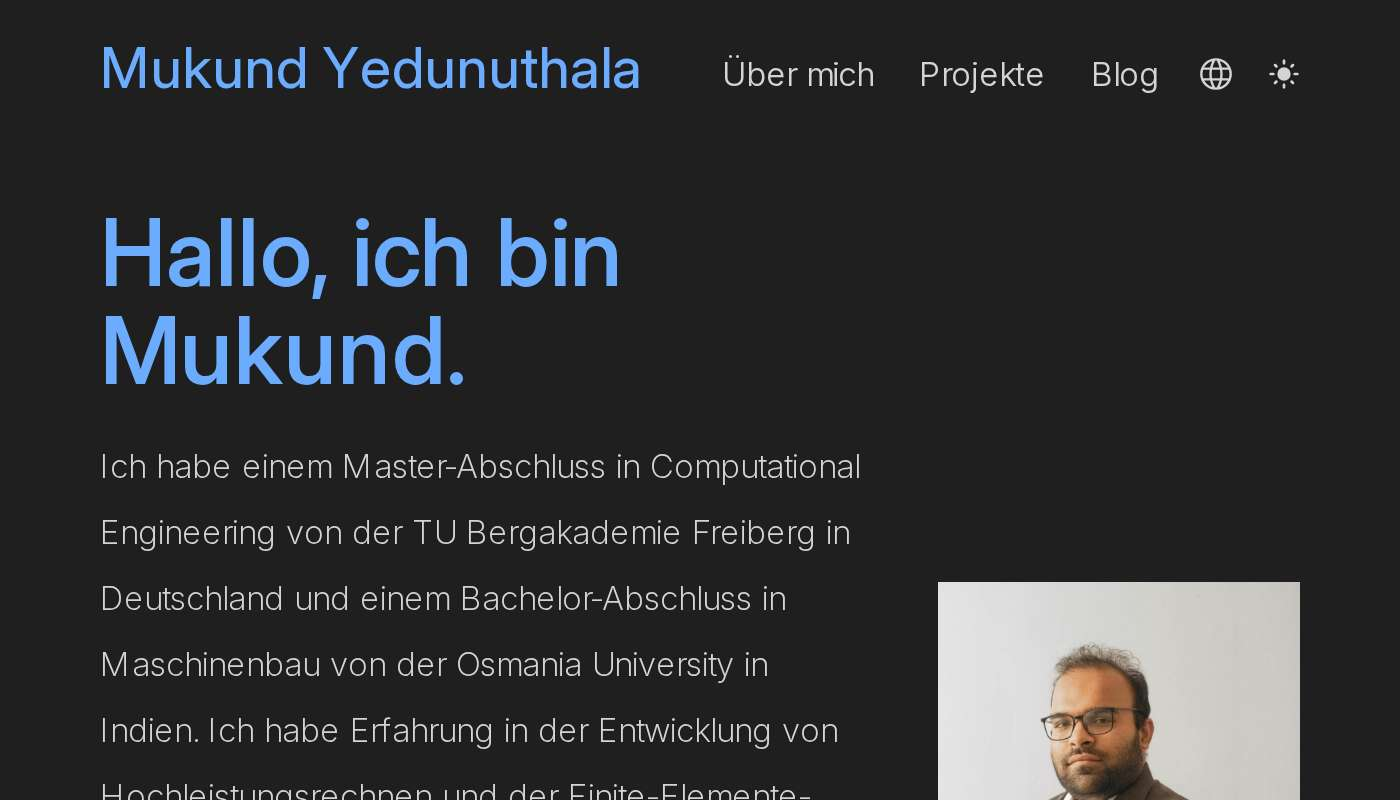
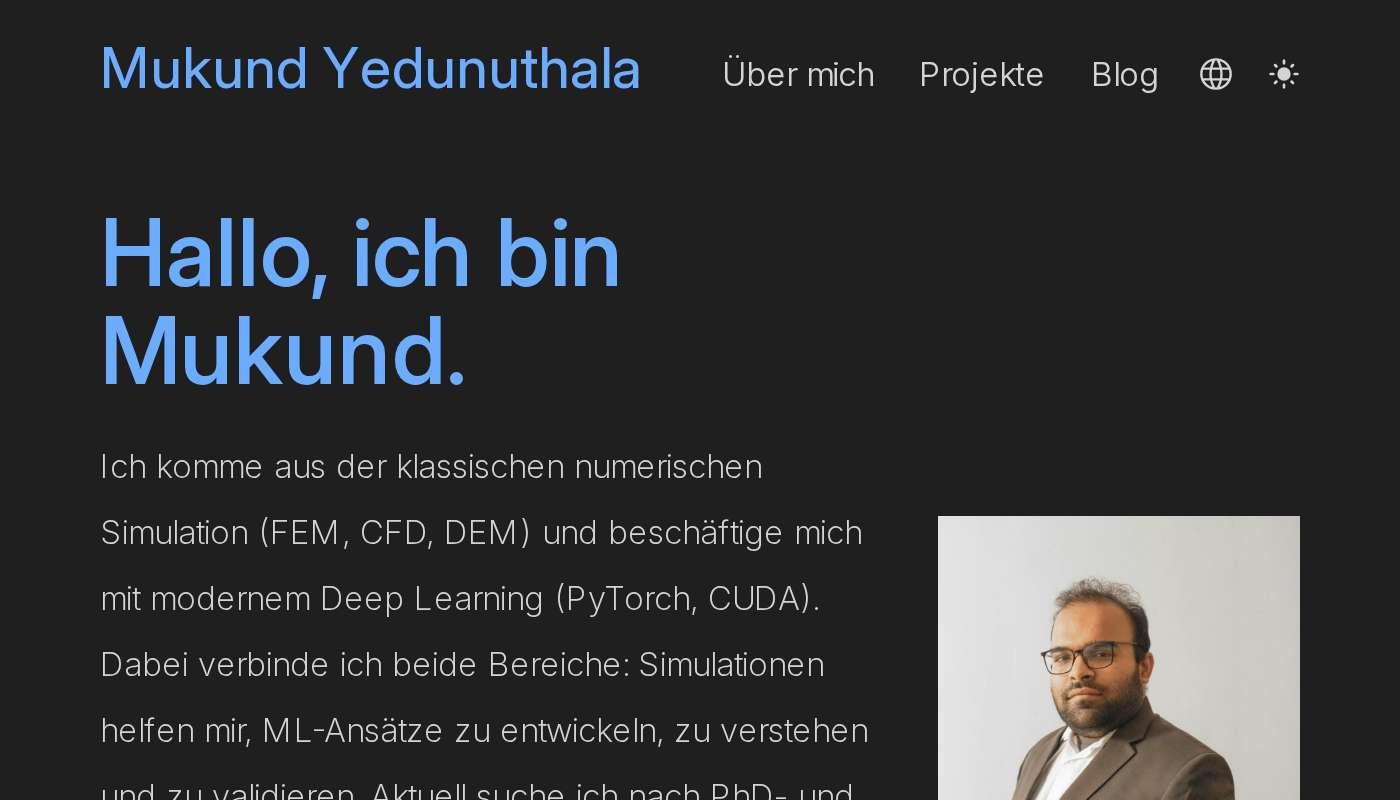
docs: update content on homepage and about page

diff --git a/content/pages/about/index.md b/content/pages/about/index.md
@@ -3,75 +3,70 @@ path = "/about"
 title = "About me"
 template = "info-page.html"
 date = "2023-08-27"
-updated = "2024-10-22"
+updated = 2026-09-01
 [extra]
 social_media_card = "img/social_cards/about.jpg"
 +++
 
-I am a software engineer with a Master's degree in Computational Materials Science from TU Bergakademie Freiberg, Germany, specialising in high-performance computing, numerical approximation methods, and applications of AI in materials science. I also hold a Bachelor's degree in Mechanical Engineering from Chaitanya Bharathi Institute of Technology, Hyderabad, India. I am currently based in Hyderabad, India. I have a strong command of both English and German, allowing me to communicate effectively in bilingual professional settings.
+I am a computational engineer with a Master's degree in Computational Materials Science from TU Bergakademie Freiberg, Germany, specialising in high-performance computing (HPC), numerical methods, and GPU-accelerated AI applications. I hold a Bachelor's degree in Mechanical Engineering from Chaitanya Bharathi Institute of Technology, affiliated with Osmania University, Hyderabad, India, and am currently based in Hyderabad, India. I am fluent in English (C1) and German (B2), enabling effective communication in bilingual professional environments.
 
-### Summary
+## Summary
 
-#### Educational Background
-
-- **Master of Science in Computational Materials Science**, TU Bergakademie Freiberg, Germany
+### Educational Background
+ 
+- **Master of Science in Computational Materials Science**, TU Bergakademie Freiberg, Germany *(Oct 2019 – Sep 2024)*
+    - Grade: 2.3
     - Focus: Nonlinear Finite Element Methods, Numerical Analysis of Differential Equations, Machine Learning for Materials Scientists, High-Performance Computing, Continuum Mechanics
     - Thesis: *Overlapping Schwarz Domain Decomposition Methods in Python with Applications in Structural Mechanics*
+    - Supervisors: Prof. Dr. Oliver Rheinbach, Dr. Stephan Köhler, Institute of Numerical Mathematics and Optimization, TU Bergakademie Freiberg
+- **Bachelor of Engineering in Mechanical Engineering**, Chaitanya Bharathi Institute of Technology, Hyderabad, India *(Aug 2015 – Jul 2019)*
+    - Grade: 8.6/10
+    - Focus: Structural Mechanics, Computer-Aided Design and Manufacturing, Machine Design, Dynamics of Machines, Fluid Mechanics, Thermodynamics, Heat Transfer
 
-- **Bachelor of Engineering in Mechanical Engineering**, Chaitanya Bharathi Institute of Technology, Hyderabad, India
-    - Focus: Structural Mechanics, Computer-Aided Engineering (CAE), Fluid Dynamics, Thermodynamics
 
-#### Skills and Expertise
+### Skills and Expertise
 
-- **Domains**: GPU-Accelerated Computing, AI Model Optimisation, Finite Element Analysis, High-Performance Computing, Numerical Modelling, Distributed & Parallel Computing
-- **GPU Computing**: CUDA, Numba (GPU), kernel optimisation, performance profiling
-- **Distributed & Parallel Computing**: MPI, OpenMP, PETSc, PBS, SLURM
-- **AI / ML Frameworks**: PyTorch, TensorFlow, scikit-learn, NumPy, SciPy
-- **Programming Languages**: Python, C++, MATLAB, Fortran, Rust
-- **Simulation Tools**: Abaqus, GMsh, LS-DYNA, ANSYS Mechanical
-- **Software Development**: Git (GitHub, GitLab), Docker, CMake, Linux, PyTest, Catch2, Googletest
-- **Documentation**: LaTeX, Sphinx, Doxygen
-- **Soft Skills**: Problem-solving, Teamwork, Research, Technical communication, Public speaking
+- **Core Competencies**: GPU-Accelerated Computing, AI Model Optimisation, Finite Element Analysis, High-Performance Computing, Numerical Modelling, Distributed & Parallel Computing
+- **GPU & Accelerated Computing**: CUDA, Numba, kernel optimisation, performance profiling
+- **Parallel & Distributed Computing**: MPI, OpenMP, PETSc, SLURM, PBS
+- **Machine Learning & AI**: PyTorch, TensorFlow, scikit-learn, NumPy, SciPy
+- **Programming Languages**: Python, MATLAB, C++, Fortran, Rust
+- **Numerical Methods**: PDE discretisation, finite element methods, numerical linear algebra, Krylov methods (CG, PCG, GMRES), preconditioning
+- **Simulation & Analysis Tools**: Abaqus, GMsh, COMSOL Multiphysics, LS-DYNA, ANSYS Workbench
+- **Software Development Practices**: Git, PyTest, CMake, Docker, GoogleTest, Linux
+- **Documentation & Communication**: LaTeX, Sphinx, Doxygen
+- **Soft Skills**: Problem solver, Adaptable, Research-oriented, Technical Documentation, Presentation
 
-#### Professional Experience
 
+### Professional Experience
 - **Technical Intern — AI Model Optimisation**
-
     Aientasar Software Solutions, Hyderabad, India *(Oct 2024 – Apr 2025)*
-
-    - Optimised inference performance of computer vision models for real-time anomaly detection on live camera feed data, focusing on throughput and latency reduction in a Linux-based GPU deployment environment.
-    - Conducted systematic profiling to identify computational bottlenecks across the AI/ML pipeline.
-    - Validated optimised model outputs against baseline reference results to ensure correctness under performance-driven modifications.
-
-- **Student Research Assistant & Master's Thesis**
-
+    - Analysed numerical performance and model evaluation pipelines for computer-vision anomaly detection using Python and TensorFlow.
+    - Owned data preprocessing, validation, and robustness analysis for camera-feed image data.
+    - Improved model deployment readiness in collaboration with the engineering team.
+    
+- **Research Assistant (HiWi) & Master's Thesis**
     Institute of Numerical Mathematics and Optimization, TU Bergakademie Freiberg *(Aug 2023 – Sep 2024)*
-
-    - Developed high-performance non-linear FEM solvers in Python for structural mechanics applications.
-    - Reduced solver runtime from 160 s to 20 s per loading step through systematic profiling and algorithmic redesign.
-    - Validated results against commercial FEM software (Abaqus); maintained reproducibility via Git and structured documentation.
-
+    - Formulated and implemented a nonlinear FEM solver in Python for a von Mises plasticity model under small-strain assumptions.
+    - Applied numerical methods for discretised PDE systems, including Newton-Raphson, Krylov solvers (CG, PCG, GMRES), and UMFPACK.
+    - Implemented overlapping Additive Schwarz preconditioning and benchmarked the solver against conventional Newton and Abaqus reference simulations, achieving an 8× runtime reduction (160s → 20s per step).
+    - Maintained code reproducibility and modularity through version control (Git) and structured testing (PyTest unit and integration tests).
+    
 - **Summer Intern — PRACE Summer of HPC 2021**
+    MdlS – Maison de la Simulation (CEA/CNRS), France *(Jun 2021 – Aug 2021)*
+    - Selected as one of 66 participants for the PRACE Summer of HPC programme.
+    - Studied an existing parallel FEM solver codebase, written in C/C++ with OpenMP and MPI support, across several use cases and configurations.
+    - Collaborated with an international team to extend the parallel FEM codebase for heat transfer through diffusion and radiation.
+    - Received practical training in MPI, OpenMP, GPU programming with CUDA and Numba, and batch scheduling on a computing cluster using SLURM.
 
-    Maison de la Simulation, CEA/CNRS, France *(Jun 2021 – Aug 2021)*
+### Certifications & Achievements
 
-    - Selected as one of 66 participants for the competitive Partnership for Advanced Computing in Europe (PRACE) HPC programme.
-    - Developed and optimised parallel C++ code using OpenMP and MPI in a distributed multi-node environment.
+- **PyTorch for Deep Learning Professional Certificate** — DeepLearning.AI (July 2026) ([Credentials](https://www.deeplearning.ai/certificates/2db91c51-3ad1-4130-9479-676257d385e1))
+- **Fundamentals of Accelerated Computing with CUDA Python** — NVIDIA Deep Learning Institute ([Credentials](https://learn.nvidia.com/certificates?id=PCHBvThzT6G3SzWNiZdWww))
+- **Fortran for Scientific Computing** — PRACE & Vlaams Supercomputer Centre ([Credentials](https://www.futurelearn.com/certificates/d1xj446))
+- **Deutsch: Kommunikation in Studium und Beruf** — International University Center (IUZ), TU Bergakademie Freiberg
 
-#### Certifications & Achievements
 
-- **Fundamentals of Accelerated Computing with CUDA Python**
-
-    NVIDIA Deep Learning Institute, [Certification Link.](https://learn.nvidia.com/certificates?id=PCHBvThzT6G3SzWNiZdWww)
-
-- **Deutsch: Kommunikation in Studium und Beruf**
-
-    International University Center (IUZ), TU Bergakademie Freiberg
-
-- **Fortran for Scientific Computing**
-
-    Partnership for Advanced Computing in Europe (PRACE) and Vlaams Supercomputer Centre, over FutureLearn, [Certification Link.](https://www.futurelearn.com/certificates/d1xj446)
-
-In addition to my professional work, I am a tech enthusiast with an interest in open-source software and computational science. I enjoy exploring new ideas at the intersection of hardware and software performance.
+I'm passionate about open-source software and computational science, with a focus on the numerical simulations, and AI fueled engineering solutions. I'm actively exploring PhD opportunities and industry roles in high-performance computing, scientific ML, and GPU engineering.
 
 For a comprehensive overview of my qualifications, you can refer to my detailed CV available in [English](pdf/CV_Venkata-Mukund-Kashyap_Yedunuthala.pdf) and [German](pdf/Lebenslauf_Venkata-Mukund-Kashyap_Yedunuthala.pdf).

diff --git a/content/pages/about/index.de.md b/content/pages/about/index.de.md
@@ -3,77 +3,72 @@ path = "/de/about"
 title = "Über mich"
 template = "info-page.html"
 date = "2023-08-27"
-updated = "2024-10-22"
+updated = 2026-09-01
 [extra]
 social_media_card = "img/social_cards/de_about.jpg"
 +++
 
-Ich bin ein Softwareentwickler mit einem Master-Abschluss in Computational Materials Science von der TU Bergakademie Freiberg, Deutschland, mit Schwerpunkt auf High-performance Computing, numerische Mathematik und KI. Außerdem halte ich einen Bachelor-Abschluss in Maschinenbau vom Chaitanya Bharathi Institute of Technology, Hyderabad, Indien. Derzeit lebe ich in Hyderabad, Indien. Ich beherrsche sowohl Englisch als auch Deutsch fließend und kommuniziere souverän in zweisprachigen beruflichen Umgebungen.
+Ich bin ein Berechnungsingenieur/Entwicklungsingenieur mit einem Master-Abschluss in Computational Materials Science von der TU Bergakademie Freiberg, Deutschland, mit Schwerpunkt auf High-performance Computing, numerische Mathematik und KI Anwendungen. Mein Bachelor-Abschluss ist in Maschinenbau vom Chaitanya Bharathi Institute of Technology, Hyderabad, Indien. Derzeit lebe ich in Hyderabad, Indien. Ich rede fließend Englisch und Deutsch fließend und kommuniziere sicher in zweisprachigen beruflichen Umgebungen.
 
-### Zusammenfassung
+## Zusammenfassung
 
-#### Ausbildung
+### Ausbildung
 
-- **Master of Science in Computational Materials Science**, TU Bergakademie Freiberg, Deutschland
-    - Schwerpunkte: Nonlinear Finite Element Methods, Numerical Analysis of Differential Equations, Machine Learning for Materials Scientists, High-Performance Computing, Kontinuumsmechanik
+- **Master of Science in Computational Materials Science**, TU Bergakademie Freiberg, Germany *(Oct 2019 – Sep 2024)*
+    - Noten: 2.3
+    - Schwerpunkte: Nonlinear Finite Element Methods, Numerical Analysis of Differential Equations, Machine Learning for Materials Scientists, High-Performance Computing, Continuum Mechanics
     - Masterarbeit: *Overlapping Schwarz Domain Decomposition Methods in Python with Applications in Structural Mechanics*
+    - Supervisors: Prof. Dr. Oliver Rheinbach, Dr. Stephan Köhler, Institut für Numerische Mathematik und Optimierung, TU Bergakademie Freiberg
+- **Bachelor of Engineering in Mechanical Engineering**, Chaitanya Bharathi Institute of Technology, Hyderabad, India *(Aug 2015 – Jul 2019)*
+    - Noten: 8.6/10
+    - Schwerpunkte: Structural Mechanics, Computer-Aided Design and Manufacturing, Machine Design, Dynamics of Machines, Fluid Mechanics, Thermodynamics, Heat Transfer
 
-- **Bachelor of Engineering in Maschinenbau**, Chaitanya Bharathi Institute of Technology, Hyderabad, Indien
-    - Schwerpunkte: Strukturmechanik, Computer-Aided Engineering (CAE), Strömungslehre, Thermodynamik
-
-#### Fähigkeiten und Kompetenzen
+### Fähigkeiten und Kompetenzen
 
 - **Fachgebiete**: GPU-Accelerated Computing, AI Model Optimisation, Finite Element Analysis, High-Performance Computing, Numerische Modellierung, Distributed & Parallel Computing
 - **GPU Computing**: CUDA, Numba (GPU), Kernel Optimisation, Performance Profiling
 - **Distributed & Parallel Computing**: MPI, OpenMP, PETSc, PBS, SLURM
 - **AI / ML Frameworks**: PyTorch, TensorFlow, scikit-learn, NumPy, SciPy
+- **Numerische Mathematik**: PDE discretisation, finite element methods, numerical linear algebra, Krylov methods (CG, PCG, GMRES), preconditioning
 - **Programmiersprachen**: Python, C++, MATLAB, Fortran, Rust
-- **Simulationswerkzeuge**: Abaqus, GMsh, LS-DYNA
-- **Softwareentwicklung**: Git (GitHub, GitLab), Docker, CMake, Linux, PyTest, Catch2, Googletest
+- **Simulationswerkzeuge**: Abaqus, GMsh, LS-DYNA, ANSYS Mechanical
+- **Softwareentwicklung**: Git (GitHub/GitLab), Docker, CMake, Linux, PyTest, GoogleTest, Catch2
 - **Dokumentation**: LaTeX, Sphinx, Doxygen
 - **Soft Skills**: Problemlösung, Teamarbeit, Forschung, Technische Kommunikation, Präsentation
 
 #### Berufserfahrung
+* **Praktikant — Optimierung von KI-Modellen**
+  Aientasar Software Solutions, Hyderabad, Indien *(Okt. 2024 – Apr. 2025)*
 
-- **Technical Intern — AI Model Optimisation**
+  * Analyse der numerischen Performance und Evaluations-Pipelines für Computer-Vision-Modelle zur Anomalieerkennung mit Python und TensorFlow.
+  * Verantwortung für Datenvorverarbeitung, Validierung und Robustheitsanalyse von Bilddaten aus Kamerastreams.
+  * Gemeinsam mit dem Engineering-Team die Einsatzbereitschaft der Modelle für die spätere Bereitstellung verbessert.
 
-    Aientasar Software Solutions, Hyderabad, Indien *(Okt. 2024 – Apr. 2025)*
+* **Wissenschaftliche Hilfskraft (HiWi) & Masterarbeit**
+  Institut für Numerische Mathematik und Optimierung, TU Bergakademie Freiberg *(Aug. 2023 – Sep. 2024)*
 
-    - Optimierung der Inference-Performance von Computer-Vision-Modellen zur Echtzeit-Anomalieerkennung auf Live-Kameradaten, mit Fokus auf Durchsatz- und Latenzreduktion in einer Linux-basierten GPU-Deployment-Umgebung.
-    - Systematisches Profiling zur Identifikation von Rechenengpässen in der AI/ML-Pipeline.
-    - Validierung der optimierten Modellausgaben gegenüber Baseline-Referenzergebnissen zur Sicherstellung der Korrektheit.
+  * Einen nichtlinearen FEM-Solver in Python für ein von-Mises-Plastizitätsmodell unter Kleinverzerrungsannahmen entwickelt und implementiert.
+  * Numerische Verfahren für diskretisierte PDE-Systeme eingesetzt, darunter Newton-Raphson, Krylov-Solver (CG, PCG, GMRES) und UMFPACK.
+  * Durch Git und strukturierte PyTest-Unit- und Integrationstests für reproduzierbaren und modularen Code gesorgt.
 
-- **Studentische Hilfskraft & Masterarbeit**
+* **Praktikant — PRACE Summer of HPC 2021**
+  MdlS – Maison de la Simulation (CEA/CNRS), Frankreich *(Jun. 2021 – Aug. 2021)*
 
-    Institut für Numerische Mathematik und Optimierung, TU Bergakademie Freiberg *(Aug. 2023 – Sep. 2024)*
+  * Als einer von 66 Teilnehmern für das PRACE Summer of HPC Programm ausgewählt.
+  * Einen bestehenden parallelen FEM-Code in C/C++ mit OpenMP- und MPI-Unterstützung für verschiedene Anwendungsfälle und Konfigurationen untersucht.
+  * In einem internationalen Team den parallelen FEM-Code für Wärmeübertragung durch Diffusion und Strahlung erweitert.
+  * Praktische Erfahrung mit MPI, OpenMP, GPU-Programmierung mit CUDA und Numba sowie der Ausführung von Jobs auf einem Rechencluster mit SLURM gesammelt.
 
-    - Entwicklung hochperformanter nichtlinearer FEM-Solver in Python für strukturmechanische Anwendungen.
-    - Reduzierung der Solver-Laufzeit von 160 s auf 20 s pro Lastschritt durch systematisches Profiling und algorithmisches Redesign.
-    - Validierung der Ergebnisse gegen kommerzielle FEM-Software (Abaqus); Reproduzierbarkeit durch Git und strukturierte Dokumentation sichergestellt.
-
-- **Summer Intern — PRACE Summer of HPC 2021**
-
-    Maison de la Simulation, CEA/CNRS, Frankreich *(Jun. 2021 – Aug. 2021)*
-
-    - Auswahl als einer von 66 Teilnehmenden des wettbewerbsbasierten Partnership for Advanced Computing in Europe (PRACE) HPC-Programms.
-    - Entwicklung und Optimierung von parallelem C++-Code mit OpenMP und MPI in einer verteilten Multi-Node-Umgebung.
 
 #### Zertifikate & Auszeichnungen
 
-- **Fundamentals of Accelerated Computing with CUDA Python**
-
-    NVIDIA Deep Learning Institute, [Zertifikatslink.](https://learn.nvidia.com/certificates?id=PCHBvThzT6G3SzWNiZdWww)
-
-- **Deutsch: Kommunikation in Studium und Beruf**
-
-    Internationales Universitätszentrum (IUZ), TU Bergakademie Freiberg
-
-- **Fortran for Scientific Computing**
-
-    Partnership for Advanced Computing in Europe (PRACE) and Vlaams Supercomputer Centre, bei FutureLearn, [Zertifikatslink.](https://www.futurelearn.com/certificates/d1xj446)
+- **PyTorch for Deep Learning Professional Certificate** — DeepLearning.AI (July 2026) ([Credentials](https://www.deeplearning.ai/certificates/2db91c51-3ad1-4130-9479-676257d385e1))
+- **Fundamentals of Accelerated Computing with CUDA Python** — NVIDIA Deep Learning Institute ([Credentials](https://learn.nvidia.com/certificates?id=PCHBvThzT6G3SzWNiZdWww))
+- **Fortran for Scientific Computing** — PRACE & Vlaams Supercomputer Centre ([Credentials](https://www.futurelearn.com/certificates/d1xj446))
+- **Deutsch: Kommunikation in Studium und Beruf** — International University Center (IUZ), TU Bergakademie Freiberg
 
 ---
 
-Neben meiner beruflichen Tätigkeit begeistere ich mich für Open-Source-Software und rechnergestützte Wissenschaft. Ich erkunde gerne neue Ideen an der Schnittstelle Software-Performance.
+Neben meiner beruflichen Tätigkeit begeistere ich mich für Open-Source-Software und rechnergestützte Wissenschaft.
 
 Einen umfassenden Überblick über meine Qualifikationen finden Sie in meinem ausführlichen Lebenslauf auf [Englisch](pdf/CV_Venkata-Mukund-Kashyap_Yedunuthala.pdf) und [Deutsch](pdf/Lebenslauf_Venkata-Mukund-Kashyap_Yedunuthala.pdf).

diff --git a/content/_index.de.md b/content/_index.de.md
@@ -13,4 +13,4 @@ show_remote_changes = true
 social_media_card = "img/social_cards/de.jpg"
 +++
 
-Ich habe einem Master-Abschluss in Computational Engineering von der TU Bergakademie Freiberg in Deutschland und einem Bachelor-Abschluss in Maschinenbau von der Osmania University in Indien. Ich habe Erfahrung in der Entwicklung von Hochleistungsrechnen und der Finite-Elemente-Analyse (FEA) gesammelt. Meine Schwerpunkte liegen in der Festkörpermechanik, numerischen Modellierung und ich verfüge über fundierte Kenntnisse in Fortran, Python, MATLAB und C++. Unten finden Sie eine Auswahl meiner Projekte, die zeigen, wie ich diese Fähigkeiten einsetze.
+Ich komme aus der klassischen numerischen Simulation (FEM, CFD, DEM) und beschäftige mich mit modernem Deep Learning (PyTorch, CUDA). Dabei verbinde ich beide Bereiche: Simulationen helfen mir, ML-Ansätze zu entwickeln, zu verstehen und zu validieren. Aktuell suche ich nach PhD- und Industriepositionen, bei denen ich HPC, Scientific Computing und Machine Learning verbinden kann. Mehr über mich [gibt es hier](/de/about/). Meinen Lebenslauf gibt es als PDF [auf Englisch](/about/pdf/CV_Venkata-Mukund-Kashyap_Yedunuthala.pdf) und [auf Deutsch](/about/pdf/Lebenslauf_Venkata-Mukund-Kashyap_Yedunuthala.pdf).

diff --git a/content/_index.md b/content/_index.md
@@ -12,4 +12,4 @@ show_projects_first=true
 show_remote_changes = true
 social_media_card = "img/social_cards/index.jpg"
 +++
-Trained as a mechanical engineer (B.Eng.) and specialized in computational materials science (M.Sc.), I focus on structural mechanics simulation, AI engineering and high-performance scientific computing. I share here some snippets, technical overviews, and illustrations from my [projects](/projects/) over the years. Read more [about me here](/about/).
+I am a trained professional in classical numerical methods (FEM, PDEs, domain decomposition), computational mechanics, and modern deep learning (PyTorch, CUDA). My background bridges the two: simulation workflows inform and validate ML approaches. I like exploring emerging concepts like how neural networks can accelerate physics-based solvers. Currently seeking PhD and industry positions combining HPC, scientific computing, and machine learning. Read more [about me here](/about/). View my resume (PDF) [in English](about/pdf/CV_Venkata-Mukund-Kashyap_Yedunuthala.pdf) and [in German](about/pdf/Lebenslauf_Venkata-Mukund-Kashyap_Yedunuthala.pdf).
